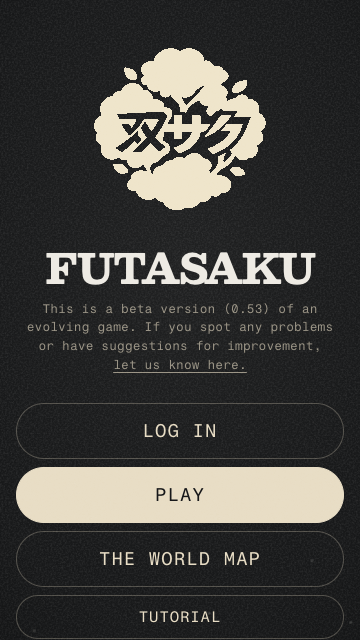
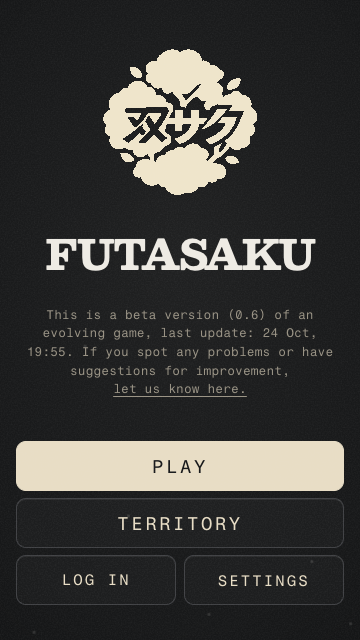
fix(bloom): a picked Bloom really is aqua, and the left-behind e2e asserts today's product
The Bloom highlight was DEAD in the product, not in the test. renderHand has put
`futa04-bloom-pick` on the picked cards since 14d5d8f4, but the rule that paints them
(`.futa04-information .dock .hand .card.futa04-bloom-pick`) lost both properties in the
cascade: the lifted-card cream in cards.ts (five classes, injected later) won the border,
and the generic Grow edge light (an id-deep selector, in two places) won the glow. A
selected Bloom therefore looked exactly like any other playable card. The rule now uses
`#hand` (an id beats any number of classes) and both Grow edge lights exclude the class.
The e2e check measured `.futa04-bloom-card` — the IDLE "these could bloom" hint, which is
deliberately dropped once a recipe is selected — so it could never see the selection; it
now counts `futa04-bloom-pick` AND reads the computed aqua (143,211,201) at every viewport.

The rest of this commit is tests catching up with decisions already shipped:
- Continue is never on the product menu (owner 2026-10-19, 76546c1b): suites could not even
  reach their own checks because `page.click('#menu-continue')` waits for a control that is
  deliberately hidden. `resumeSavedGame` (helpers/menu-nav) invokes its real bound handler.
- menu-shots: LEVEL, not Play online, is the one filled key in PLAY (9b28970d / 2026-10-22),
  and a reload offers no Continue while the save still round-trips.
- futa04-living-display: the 2026-10-15 restructure (8f3f54f2) retired the flat
[…]

diff --git a/web/e2e/futa04-board-turn-polish.ts b/web/e2e/futa04-board-turn-polish.ts
@@ -14,6 +14,7 @@ import { decodeSave } from '../src/logic/persist.js';
 import { hexCenter } from './drawing.js';
 import { positionSave } from './position.js';
 import { assertDistChannel } from './helpers/dist-channel.js';
+import { resumeSavedGame } from './helpers/menu-nav.js';
 import { fruitPosition, NINE_CHAIN } from './fruitcards-pos.js';
 import { fixture } from '../../tests/helpers.js';
 
@@ -104,7 +105,7 @@ async function open(width: number, height: number, seed: number, humanFirst = fa
     await page.addInitScript(save => localStorage.setItem('main2:severgrow.save.v7', save), positionSave({ state: newGame(seed) }));
     await page.goto(base);
     await assertDistChannel(page);   // loud if the served dist was built for another channel
-    await page.locator('#menu-continue').click();
+    await resumeSavedGame(page);
   } else {
     await page.goto(`${base}?seed=${seed}`);
     await assertDistChannel(page);   // loud if the served dist was built for another channel
@@ -114,6 +115,9 @@ async function open(width: number, height: number, seed: number, humanFirst = fa
   await page.waitForFunction(() => document.querySelectorAll('#board .hex-cell').length > 0);
   await page.locator('#splash').waitFor({state:'hidden'});
   await page.waitForFunction(() => document.fonts.status === 'loaded');
+  // The pre-game card ritual (starter-ritual.ts) owns the screen and swallows pointers/keys while
+  // it plays; the game is only ready to drive after it has gathered itself into the real draw pile.
+  await page.waitForSelector('#starter-lottery', { state: 'hidden', timeout: 20_000 });
   await page.waitForTimeout(180);
   equal(await state(page), newGame(seed), `${width}x${height}: seeded Classic setup`);
   return { page, touch, errors };
@@ -378,7 +382,14 @@ async function idleTiming(page: Page, label: string) {
   await page.keyboard.press('Shift');
   await page.waitForTimeout(160);
   const after = (await page.locator('#smart-led-text').innerText()).trim();
-  check(after !== 'DRAW' && after !== 'DRAW!', `${label}: new input promptly hides idle guidance`);
+  // Sticky idle urgency (display-machine.ts, owner 2026-10-11 "LED dwell/urgency"): the re-prompt
+  // keeps blinking until the player STARTS THE NEXT MOVE. A stray key is a fidget, and the machine
+  // deliberately does not let it dismiss the prompt ("a fidget tap must not dismiss it"). The old
+  // check asserted the opposite, so it now pins the real behaviour: the prompt survives the fidget
+  // and the cockpit stays in its urgency state.
+  check(after === 'DRAW' || after === 'DRAW!', `${label}: a fidget key never dismisses the sticky idle prompt (${after})`);
+  check(await page.evaluate(() => document.documentElement.classList.contains('idle-urgency')),
+    `${label}: the cockpit keeps its idle-urgency state until the next move`);
   equal(await state(page),before,`${label}: the idle timer changes no game state`);
 }
 
@@ -395,7 +406,7 @@ async function fruitFlow(width: number, height: number) {
       localStorage.setItem('main2:severgrow.tips.v1',JSON.stringify({fruit:true,fruitAny:true,strengthen:true}));
     },positionSave({state:before}));
     await page.goto(base);
-    await page.click('#menu-continue'); await idle(page);
+    await resumeSavedGame(page); await idle(page);
     equal(await state(page),before,'Bomb: saved position resumes unchanged');
     const palette = await page.locator('#hand .card').evaluateAll(cards => cards.map(card => ({
       suit:card.className.match(/\bs[0-3]\b/)?.[0] ?? 'bomb', ink:getComputedStyle(card.querySelector('.c-num')!).color,
@@ -434,6 +445,11 @@ async function fruitFlow(width: number, height: number) {
 async function undo(page: Page, before: State, label: string) {
   await idle(page);
   check(await page.locator('#tool-undo').isEnabled(), `${label}: Undo is available immediately after the move settles`);
+  // The same slot also stands in for "Replay their last turn" (renderHud sets mode='replay' and
+  // swaps the icon + label). "Enabled" alone therefore does not mean "Undo": a tap here would
+  // replay the opponent instead of taking the move back, and the state would rightly not change.
+  check(await page.locator('#tool-undo').evaluate(el => el.dataset.mode !== 'replay'),
+    `${label}: the slot offers Undo, not a replay of the opponent's turn`);
   await page.click('#tool-undo');
   equal(await state(page), before, `${label}: one Undo immediately restores the entire state`);
   await idle(page);
@@ -675,7 +691,7 @@ async function sproutFlow(width: number, height: number) {
     equal([manifest.name,manifest.short_name], ['Futasaku','Futasaku'], `${label}: installed-app name uses Futasaku`);
     await page.screenshot({ path: `${dir}/${width}x${height}-futasaku-menu.png` });
     await evidence(page,`${width}x${height}-futasaku-menu`);
-    await page.click('#menu-continue'); await idle(page);
+    await resumeSavedGame(page); await idle(page);
     equal(await state(page),resumed,`${label}: reload resumes exact save after real turns`);
     const untouched = await page.evaluate(() => Object.fromEntries(Object.entries(localStorage).filter(([key]) => key === 'severgrow.save.v7' || key === 'test:severgrow.save.v7')));
     equal(untouched,{ 'severgrow.save.v7':'MAIN-POLISH-SENTINEL','test:severgrow.save.v7':'TEST-POLISH-SENTINEL' },`${label}: other-channel saves stay intact`);
@@ -780,7 +796,19 @@ async function bloomFlow(width: number, height: number) {
     await pick();
     check(await page.locator('#moves .futa04-skip').evaluate(button => !!button.querySelector('svg') && !button.textContent?.trim() && button.getAttribute('aria-label')?.startsWith('Skip')),`${label}: Bloom retains an accessible icon-only Skip button`);
     check(await page.locator('#moves .futa04-skip').isEnabled(),`${label}: subdued Skip remains usable`);
-    equal(await page.locator('#hand .futa04-bloom-card').count(),action.cards.length,`${label}: selected Bloom highlights exactly its cards`);
+    // The lifted, selected cards carry `futa04-bloom-pick` (main.ts renderHand; the Bloom's own
+    // colour, owner 2026-10-23). `futa04-bloom-card` is the IDLE hint for cards that could bloom,
+    // and it is deliberately dropped once a recipe is selected, so counting it here measured the
+    // hint, not the selection. Assert the selection AND that it is actually painted in aqua: the
+    // lifted-card cream and the generic Grow green both used to win the cascade over this rule.
+    const bloomHighlight = await page.evaluate(() => {
+      const cards = [...document.querySelectorAll<HTMLElement>('#hand .futa04-bloom-pick')];
+      const css = cards[0] ? getComputedStyle(cards[0]) : null;
+      return { count: cards.length, border: css?.borderTopColor ?? '', shadow: css?.boxShadow ?? '' };
+    });
+    equal(bloomHighlight.count, action.cards.length, `${label}: selected Bloom highlights exactly its cards`);
+    check(bloomHighlight.border === 'rgb(143, 211, 201)' && bloomHighlight.shadow.includes('143, 211, 201'),
+      `${label}: the selected cards glow the Bloom's aqua, never the Grow green (${JSON.stringify(bloomHighlight)})`);
     check(!/Bloom \d+ tiles|Skip sprout/.test(await page.locator('#moves').innerText()),`${label}: Bloom choices use combination icons rather than prose`);
     // The retired plate is gone; Futa04 shows the selected Bloom group on the LED after its
     // idle re-prompt ("BLOOM" / "BLOOM!" from phaseMessage when data-futa04-bloom is true).
@@ -928,7 +956,7 @@ async function drawGlow() {
         localStorage.setItem('main2:severgrow.settings.v1',JSON.stringify({coach:true,sound:false,music:false,reduceMotion:true,speed:'skip',autoSkip:false}));
       },positionSave({state:game}));
       await page.goto(base); await page.waitForFunction(() => !!(window as any).__severgrow);
-      await page.click('#menu-continue'); await idle(page);
+      await resumeSavedGame(page); await idle(page);
       equal(await state(page),game,`${label}: exact real position resumes`);
       equal(await page.locator('#discard').evaluate(el=>el.classList.contains('futa04-bloom-draw')),wanted,`${label}: only a new Bloom combination changes the throw-pile highlight`);
       equal(await page.locator('#deck.coach-glow').count(),0,`${label}: no square Deck recommendation`);
@@ -958,7 +986,7 @@ async function bloomMenuFit() {
       localStorage.setItem('main2:severgrow.save.v7',save);
       localStorage.setItem('main2:severgrow.settings.v1',JSON.stringify({coach:false,sound:false,music:false,reduceMotion:true,speed:'skip',autoSkip:false}));
     },positionSave({state:positioned}));
-    await page.goto(base); await page.click('#menu-continue'); await idle(page);
+    await page.goto(base); await resumeSavedGame(page); await idle(page);
     equal(await state(page),positioned,'multiple Bloom choices fixture resumes exactly');
     const toggle = page.locator('#smart-bloom-button');
     check(await toggle.isVisible(),'multiple Bloom choices have a menu control');
@@ -997,7 +1025,7 @@ async function goldFrameVisuals() {
         localStorage.setItem('main2:severgrow.settings.v1',JSON.stringify({coach:false,sound:false,music:false,reduceMotion:true,speed:'skip'}));
       },positionSave({state:game}));
       await page.goto(base);
-      await page.click('#menu-continue'); await idle(page);
+      await resumeSavedGame(page); await idle(page);
       equal(await state(page),game,`standard ${width}: frame art does not change the position`);
       const visual = await page.evaluate(async () => {
         const rich = [...document.querySelectorAll<SVGGElement>('#board .hex-cell.rich')];
@@ -1039,7 +1067,7 @@ async function goldFrameVisuals() {
         visual.variants.every(variant=>variant>=0 && variant<3),
         `standard ${width}: three deterministic rim designs fit the hexes under the stones (${JSON.stringify(visual)})`);
       await page.screenshot({path:`${dir}/${width}x${height}-gold-frame-standard.png`});
-      await page.reload(); await page.click('#menu-continue'); await idle(page);
+      await page.reload(); await resumeSavedGame(page); await idle(page);
       const reloaded = await page.locator('#board .l-rich-frames .gold-frame').evaluateAll(frames=>frames.map(frame=>Number(frame.getAttribute('data-variant'))));
       equal(reloaded,visual.variants,`standard ${width}: frame variants survive reload`);
     } finally { await page.close(); }

diff --git a/web/e2e/futa04-living-display.ts b/web/e2e/futa04-living-display.ts
@@ -5,7 +5,7 @@ import { servePreview } from './helpers/preview-port.js';
 import { legalActions, viewFor } from '../../src/engine/index.js';
 import type { State } from '../../src/engine/index.js';
 import type { Page } from 'playwright-core';
-import { openMenuEntry } from './helpers/menu-nav.js';
+import { openMenuEntry, resumeSavedGame } from './helpers/menu-nav.js';
 
 // A FREE port (helpers/preview-port.ts): two concurrent runs can never collide.
 const { server, url: BASE } = await servePreview(4224, { logLevel: 'silent' });
@@ -27,29 +27,50 @@ try {
     await page.addInitScript(() => window.addEventListener('severor-ready', () => { (window as any).__ready = true; }));
     await page.goto(BASE);
     await page.waitForFunction(() => !!(window as any).__ready);
-    check((await page.locator('#menu .menu-buttons button:visible').allTextContents()).join('|').includes('New game|Tutorial|Settings'),`${width}: minimal main menu`);
+    // The product menu (owner restructure, 2026-10-15, commit 8f3f54f2) is PLAY / Territory /
+    // LOG IN / Settings. It has no Continue (owner, 2026-10-19) and no Tutorial (levels 1-10 are
+    // the tutorial), and the old flat "New game / Tutorial / Settings" column is retired.
+    // Territory needs a live duel endpoint, which this local preview build does not have.
+    const menuKeys = await page.evaluate(() => [...document.querySelectorAll<HTMLElement>('#menu .menu-buttons .btn')]
+      .filter(button => button.getClientRects().length > 0).map(button => button.id));
+    check(menuKeys[0] === 'menu-play' && !menuKeys.includes('menu-continue') && !menuKeys.includes('menu-tutorial'),
+      `${width}: product main menu leads with PLAY and holds no Continue/Tutorial (${menuKeys.join(' | ')})`);
+    check(await page.locator('#menu-continue').isHidden() && await page.locator('#menu-tutorial').isHidden(), `${width}: no Continue and no second Tutorial on the product menu`);
     check(await page.locator('#menu-howto,#menu-stats,#menu-v3').count()===0,`${width}: obsolete front-menu elements absent`);
     await openMenuEntry(page, 'menu-new');
-    check((await page.locator('.difficulty-tile').allTextContents()).length===5,`${width}: five named difficulty choices`);
+    // The five named difficulties were retired on 2026-10-15 (commit b9533fb4): Practice match now
+    // offers three carry-over tiers, Easy 3-4 / Medium 5-7 / Hard 8-9.
+    check(JSON.stringify(await page.locator('.difficulty-tile').allTextContents()) === JSON.stringify(['EASY', 'MEDIUM', 'HARD']),`${width}: three carry-over tiers`);
     await page.locator('[data-difficulty="medium"]').click();
     await page.waitForSelector('#deck.ready');
     const level=await page.evaluate(()=>(window as any).__severgrow.settings().level);
     check([5,6,7].includes(level),`${width}: Medium selects one saved engine level`);
     await page.reload();
     await page.waitForFunction(() => !!(window as any).__ready);
-    await page.locator('#menu-continue').click();
+    await resumeSavedGame(page);
     check(await page.evaluate(()=>(window as any).__severgrow.settings().level)===level,`${width}: exact chosen level survives reload`);
     const resting=await restingScore(page);
+    // The sign announces the step word first (DRAW!, ~1.2 s under Reduce Motion; display-machine.ts)
+    // and then rests on the live score. Waiting for the settled face is the same requirement the
+    // current cockpit suite (futa04-smart-cockpit) states, not a looser one.
+    await page.waitForFunction(want => document.getElementById('smart-led-text')?.textContent?.trim() === want, resting, { timeout: 6000 });
     check(await page.locator('#smart-led-text').innerText()===resting,`${width}: score is resting display during Draw (${resting})`);
     check(await page.locator('#smart-led').getAttribute('data-mode')==='score',`${width}: the resting face is the score mode (one neutral ink, no team colour)`);
-    await page.waitForFunction(() => getComputedStyle(document.querySelector('#deck .pile-card')!).boxShadow.includes('239, 234, 220'));
-    const white=await page.locator('#deck .pile-card').evaluate(el=>getComputedStyle(el).boxShadow);
-    check(white.includes('239, 234, 220'),`${width}: legal deck draw has restrained white card-edge light`);
+    // The owner moved the draw light OFF the card's contour onto its own layer (2026-10-22: "remove
+    // the contour thing ... the light is its own layer whose opacity breathes"): the pile card now
+    // has box-shadow:none and the light is its ::after. Assert the real thing, not the removed one.
+    await page.waitForFunction(() => getComputedStyle(document.querySelector('#deck .pile-card')!, '::after').boxShadow.includes('242, 237, 224'));
+    const white=await page.evaluate(() => ({
+      contour: getComputedStyle(document.querySelector('#deck .pile-card')!).boxShadow,
+      light: getComputedStyle(document.querySelector('#deck .pile-card')!, '::after').boxShadow,
+    }));
+    check(white.light.includes('242, 237, 224') && white.contour === 'none',`${width}: legal deck draw has restrained white card-edge light and no contour (${JSON.stringify(white)})`);
     if(!await page.locator('#discard.futa04-bloom-draw').count() && await page.locator('#discard.ready').count())
-      check((await page.locator('#discard .pile-card').evaluate(el=>getComputedStyle(el).boxShadow)).includes('239, 234, 220'),`${width}: ordinary legal discard draw shares white edge light`);
+      check((await page.locator('#discard .pile-card').evaluate(el=>getComputedStyle(el,'::after').boxShadow)).includes('242, 237, 224'),`${width}: ordinary legal discard draw shares white edge light`);
     await page.locator('#deck').evaluate(el=>(el as HTMLElement).click());
     await page.waitForFunction(()=>(window as any).__severgrow.state().phase==='ACT' && !(window as any).__severgrow.busy());
     const grown=await restingScore(page);
+    await page.waitForFunction(want => document.getElementById('smart-led-text')?.textContent?.trim() === want, grown, { timeout: 6000 });
     check(await page.locator('#smart-led-text').innerText()===grown,`${width}: score remains during Grow (${grown})`);
     await page.screenshot({path:`/tmp/futasaku-living-display-${width}.png`});
     check(errors.length===0,`${width}: no browser errors (${errors.join(' | ')})`);
@@ -57,8 +78,10 @@ try {
   }
   const page=await browser.newPage({viewport:{width:390,height:844},isMobile:true,hasTouch:true});
   await page.goto(`${BASE}?seed=3`);await page.waitForSelector('#deck.ready');
-  await page.waitForTimeout(6100);
-  check(await page.locator('#smart-led-text').innerText()==='DRAW','idle phase hint appears after six seconds');
+  // The idle re-prompt re-shows the step word, usually with a bang (display-machine.ts scheduleIdle:
+  // the alarm blink and a deterministic ! are part of it), so both spellings are the real prompt.
+  await page.waitForFunction(() => ['DRAW', 'DRAW!'].includes(document.getElementById('smart-led-text')?.textContent?.trim() ?? ''), undefined, { timeout: 12000 });
+  check(['DRAW','DRAW!'].includes((await page.locator('#smart-led-text').innerText()).trim()),'idle phase hint appears after a quiet beat');
   await page.locator('#deck').evaluate(el=>(el as HTMLElement).click());
   await page.waitForFunction(()=>(window as any).__severgrow.state().phase==='ACT'&&!(window as any).__severgrow.busy());
   const state=await page.evaluate(()=>(window as any).__severgrow.state());

diff --git a/web/e2e/menu-shots.ts b/web/e2e/menu-shots.ts
@@ -139,10 +139,12 @@ try {
       check(`${vp.key}: the submenu takes over the menu`, !(await page.locator('#menu').isVisible()));
       check(`${vp.key}: the PLAY heading reads Play`, (await page.textContent('#play-title'))?.trim() === 'Play');
       const entries = await page.locator('#play-actions button').allTextContents();
-      // LEVEL leads the column (owner, 2026-10-20); Play online is second and still the only fill.
+      // LEVEL leads the column AND carries the cream fill (owner, 2026-10-20: LEVEL is the first
+      // entry of PLAY, above Play online; owner, 2026-10-22: "highlight 'level n' instead"). Play
+      // online is a quiet ghost key now, so the old "it is still Play online" claim is retired.
       check(`${vp.key}: PLAY holds LEVEL n / Play online / Practice match`, JSON.stringify(entries) === JSON.stringify(['LEVEL 1', 'Play online', 'Practice match']), entries.join(' | '));
-      check(`${vp.key}: exactly one filled button in the submenu, and it is still Play online`,
-        JSON.stringify(await leaders(page, '#play-menu')) === JSON.stringify(['menu-online']), (await leaders(page, '#play-menu')).join(' | '));
+      check(`${vp.key}: exactly one filled button in the submenu, and it is LEVEL`,
+        JSON.stringify(await leaders(page, '#play-menu')) === JSON.stringify(['menu-campaign']), (await leaders(page, '#play-menu')).join(' | '));
       const fit = await page.evaluate(() => {
         const inner = document.querySelector('#play-menu .levels-inner')!;
         return inner.scrollHeight - inner.clientHeight;
@@ -204,12 +206,13 @@ try {
       await context.close();
     }
 
-    // ---- 6. the saved-game resume survives a reload (the regression guard, 2026-10-15) ----
-    // A player who reloads with a saved match MUST be offered Continue on the fresh menu: it is the
-    // only way back into that match. The boot shows the menu while `shownScreen` may already say
-    // 'menu' (returning from PLAY sets it back), so the reveal must not depend on "the screen
-    // changed". Seeded from the URL: the game starts at once, is played one real turn, and the page
-    // is then reloaded WITHOUT the query, exactly as a player who taps the browser's reload does.
+    // ---- 6. a reload with a saved match keeps that match (the regression guard, 2026-10-15) ----
+    // The menu REPLACED this guard's first premise: since the owner's 2026-10-19 decision the product
+    // menu has no Continue at all (a match is resumed from its level in PLAY). What still matters is
+    // that a reload never loses the save: the hidden control is bound to the same continueGame(), so
+    // invoking it must return the exact same position. Seeded from the URL: the game starts at once,
+    // is played one real turn, and the page is then reloaded WITHOUT the query, exactly as a player
+    // who taps the browser's reload does.
     {
       const { context, page } = await device(vp, false, `resume-${vp.key}`);
       page.on('dialog', (d) => void d.accept());
@@ -230,13 +233,16 @@ try {
       await page.evaluate(() => history.replaceState(null, '', location.pathname));
       await page.reload();
       await page.waitForSelector('#menu:not([hidden])', { timeout: 40_000 });
-      // Poll for the reveal (the menu section is unhidden a beat before its buttons are styled).
-      const offered = await page.locator('#menu-continue').waitFor({ state: 'visible', timeout: 20_000 }).then(() => true).catch(() => false);
-      check(`${vp.key}: a reload with a saved game still offers Continue`, offered);
-      await page.click('#menu-continue');
+      // Owner decision (2026-10-19, commit 76546c1b): the PRODUCT main menu has NO Continue. A
+      // saved match is offered when the player enters its level from PLAY, never as a resume key.
+      // The control is hidden, not deleted — so the save itself must still round-trip through it.
+      await page.waitForSelector('#menu[data-laid-out]', { timeout: 20_000 });
+      const offered = await page.locator('#menu-continue').isVisible().catch(() => false);
+      check(`${vp.key}: a reload offers NO Continue on the product menu (the player enters the level)`, !offered);
+      await page.evaluate(() => (document.getElementById('menu-continue') as HTMLButtonElement).click());
       await page.waitForFunction(settled, undefined, { timeout: 40_000 });
       const resumed = await page.evaluate('JSON.stringify(window.__severgrow.state())');
-      check(`${vp.key}: Continue resumes the exact saved game`, resumed === saved);
+      check(`${vp.key}: the saved game still resumes exactly (hidden control, same continueGame)`, resumed === saved);
       await context.close();
     }
   }

diff --git a/web/src/player/information.ts b/web/src/player/information.ts
@@ -35,8 +35,13 @@ export const INFORMATION_CSS = `
   border-color: var(--c-accent);
   box-shadow: 0 0 10px color-mix(in srgb, var(--c-accent) 28%, transparent), inset 0 0 7px color-mix(in srgb, var(--c-accent) 8%, transparent);
 }
-/* Picked toward a Bloom (or in the Bloom being painted): the Bloom's own aqua, as on the board. */
-.futa04-information .dock .hand .card.futa04-bloom-pick {
+/* Picked toward a Bloom (or in the Bloom being painted): the Bloom's own aqua, as on the board.
+   The #hand id is load-bearing, not decoration: the lifted-card rule in cards.ts (five classes,
+   on the card-art-ready lifted card, injected LATER) and the generic Grow edge light below both
+   outrank a class-only selector, so this rule silently lost the border and the glow and a selected
+   Bloom looked exactly like any playable card. An id beats any number of classes, and the Grow
+   edge light excludes this class explicitly. */
+html.futa04-information #hand .card.futa04-bloom-pick {
   border-color: #8fd3c9;
   box-shadow: 0 0 12px rgba(143, 211, 201, 0.38), inset 0 0 8px rgba(143, 211, 201, 0.10);
 }
@@ -324,8 +329,10 @@ html.futa04-information[data-step='throw'] #discard .gd-halo {
 }
 html.futa04-information[data-step='throw'] #discard .gd-ring { animation: none !important; opacity: 0; }
 html.futa04-information #hand .card { touch-action: manipulation; }
-/* A short edge light belongs to each card, and follows its fan rotation and lift. */
-html.futa04-information[data-step='grow'] #hand:not(.waiting) .card.playable:not(.dim) {
+/* A short edge light belongs to each card, and follows its fan rotation and lift. A card picked
+   toward a Bloom opts out: its edge is the Bloom's aqua (see the bloom-pick rule above), never the
+   green of a plain Grow. */
+html.futa04-information[data-step='grow'] #hand:not(.waiting) .card.playable:not(.dim):not(.futa04-bloom-pick) {
   box-shadow: 0 0 0 1px rgba(119,179,116,.22), 0 0 8px 1px rgba(88,158,89,.18), 0 5px 15px rgba(5,16,9,.30);
 }
 /* Scale is separate from the fan's rotate/translate, preserving its hit targets. */

diff --git a/web/e2e/helpers/menu-nav.ts b/web/e2e/helpers/menu-nav.ts
@@ -87,6 +87,29 @@ export const openMenuEntry = async (page: Page, id: string, options: MenuEntryOp
   await page.click(`#${id}`);
 };
 
+/**
+ * Resume the saved match from the product main menu as the app itself does.
+ *
+ * Owner decision (2026-10-19, commit 76546c1b): the PRODUCT main menu has NO Continue/resume.
+ * `web/src/main.ts` keeps `#menu-continue` `hidden` forever on `futa04` / `futa05`
+ * (`FEATURES.campaign`), while the control, its aria-label and its handler stay bound. A
+ * `page.click('#menu-continue')` can therefore never work on a product build — not because the
+ * resume is broken, but because the button is deliberately invisible. A suite that needs a saved
+ * position resumes the way the app's own code path does: once the app is ready, invoke that
+ * control's click handler directly. Legacy channels keep the visible button, so they still click.
+ */
+export const resumeSavedGame = async (page: Page, options: MenuEntryOptions = {}): Promise<void> => {
+  const timeout = options.timeout ?? 40_000;
+  await page.waitForFunction(() => !!(window as any).__severgrow?.ready?.(), undefined, { timeout });
+  const button = page.locator('#menu-continue');
+  await button.waitFor({ state: 'attached', timeout });
+  const visible = await button.isVisible().catch(() => false);
+  if (visible) await button.click({ timeout });
+  // Hidden on the product channel: the bound handler is the only door, and it is the real one
+  // (bind('menu-continue', () => continueGame()) in main.ts) — nothing is faked or stubbed.
+  else await button.evaluate((el) => (el as HTMLButtonElement).click());
+};
+
 /** Play online: the PLAY doorway then the Play online entry, and wait for the duel lobby. */
 export const openOnlineHub = async (page: Page, options: MenuEntryOptions = {}): Promise<void> => {
   const timeout = options.timeout ?? 40_000;

diff --git a/web/tests/bloom-by-hand.test.ts b/web/tests/bloom-by-hand.test.ts
@@ -51,8 +51,19 @@ describe('Bloom has its own colour', () => {
     expect(cockpit).not.toMatch(/:is\(\.kind-strengthen,\.kind-bloom\)/);
   });
   it('the cards picked for it glow the same aqua in the hand', () => {
-    expect(info).toMatch(/\.card\.futa04-bloom-pick \{\s*border-color: #8fd3c9;/);
+    // The id is load-bearing: the lifted-card cream (cards.ts, injected later) and the generic Grow
+    // edge light are more specific, and both overrode a class-only rule — so a selected Bloom was
+    // painted cream/green and looked like any other playable card. 2026-10-24.
+    expect(info).toMatch(/html\.futa04-information #hand \.card\.futa04-bloom-pick \{\s*border-color: #8fd3c9;/);
     expect(main).toMatch(/b\.classList\.toggle\('futa04-bloom-pick', IS_FUTA04 && inBloom\);/);
+  });
+  it('no generic Grow edge light repaints a picked card green', () => {
+    for (const source of [info, cockpit]) {
+      const rules = [...source.matchAll(/html\.futa04-information[^{]*\[data-step='grow'\][^{]*\.card\.playable[^{]*\{[^}]*\}/g)].map((m) => m[0]);
+      const shadows = rules.filter((rule) => rule.includes('box-shadow'));
+      expect(shadows.length).toBeGreaterThan(0);
+      for (const rule of shadows) expect(rule).toContain(':not(.futa04-bloom-pick)');
+    }
   });
   it('every card of the Bloom is lifted, all by the same height (owner, 2026-10-24)', () => {
     expect(main).toMatch(/const lifted = sel\.card === c\.id \|\| picked\.has\(c\.id\) \|\| bloomPick\.includes\(c\.id\) \|\| inBloom;/);

diff --git a/web/src/player/smart-cockpit.ts b/web/src/player/smart-cockpit.ts
@@ -445,7 +445,7 @@ html.futa04-information .dock #futa04-box :is(#deck,#discard) .pile-meta .pile-c
 /* Match the illustrated card's printed corners instead of the legacy card silhouette. */
 html.futa04-information.futa04-card-art-ready #hand .card:has(>.futa04-card-art) { border-radius:calc(var(--cw) * .075); }
 html.futa04-information.futa04-card-art-ready #hand .card > .futa04-card-art { border-radius:inherit; }
-html.futa04-information[data-step='grow'] #hand:not(.waiting) .card.playable:not(.dim) { box-shadow:0 0 0 1px rgba(119,194,115,.4),0 0 6px 1px rgba(88,171,86,.43),0 5px 12px rgba(5,16,9,.30); }
+html.futa04-information[data-step='grow'] #hand:not(.waiting) .card.playable:not(.dim):not(.futa04-bloom-pick) { box-shadow:0 0 0 1px rgba(119,194,115,.4),0 0 6px 1px rgba(88,171,86,.43),0 5px 12px rgba(5,16,9,.30); }
 html.futa04-information[data-step='throw'] #hand:not(.waiting) .card:not(.futa04-throw-picked) { box-shadow:0 0 0 1px rgba(222,110,83,.5),0 0 7px 1px rgba(190,68,47,.53),0 5px 12px rgba(20,11,10,.34); }
 html.futa04-information[data-step='throw'] #hand:not(.waiting) .card.futa04-throw-picked { box-shadow:0 0 0 1px rgba(222,110,83,.5),0 0 7px 1px rgba(190,68,47,.53) !important; }
 html.futa04-information #discard .gd-halo { inset:0; border-radius:6px; }
